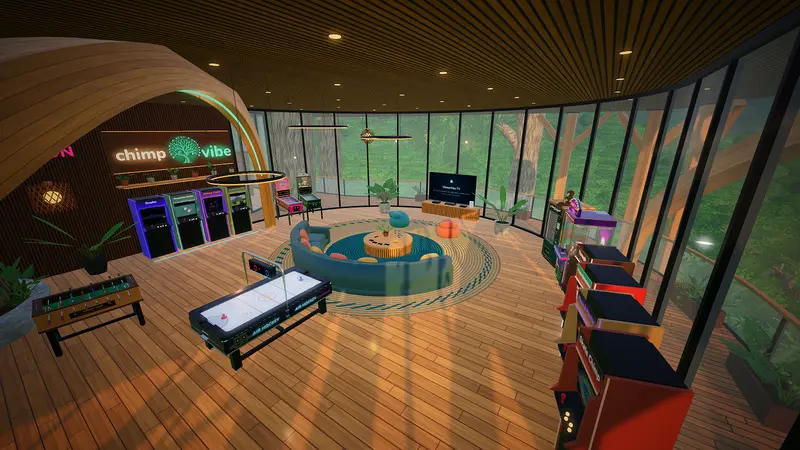
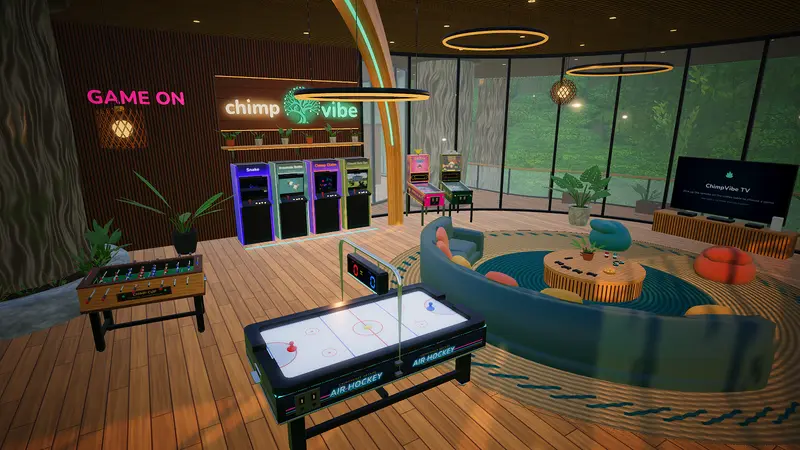
Landing page: closer photos of the Game Room, MixChimp Studio and Showroom
The showroom photo now frames the submission wall, host desk, featured build
screen and the firetruck's display table; MixChimp frames the production desk
under its sign and the drum kit; the Game Room comes in closer on air hockey,
the sofa and TV, and the arcade cabinets. Alt text follows the new views.

diff --git a/src/site/rooms.ts b/src/site/rooms.ts
@@ -70,7 +70,7 @@ export const ROOMS: Room[] = [
     ],
     things: ["Arcade cabinets", "Game TV", "Pinball", "Claw machine", "Air hockey", "Foosball"],
     concept: "game",
-    alt: "The Game Room from above: arcade cabinets under the ChimpVibe sign, pinball, air hockey and foosball, and the curved teal sofa facing the big TV",
+    alt: "The Game Room up close: the air hockey table and foosball in front, arcade cabinets and pinball under the ChimpVibe sign, and the curved teal sofa facing the big TV",
   },
   {
     id: "trading",
@@ -96,7 +96,7 @@ export const ROOMS: Room[] = [
     ],
     things: ["Production desk", "Drum kit and guitars", "Vocal booth"],
     concept: "mixchimp",
-    alt: "The MixChimp Studio from above: the production desk under the lit MixChimp sign and the drum kit on its rug by the glass wall",
+    alt: "The MixChimp Studio up close: the production desk and its screens under the lit MixChimp sign, and the drum kit on its red rug by the glass wall",
   },
   {
     id: "gallery",
@@ -122,7 +122,7 @@ export const ROOMS: Room[] = [
     ],
     things: ["Submission wall", "Featured build screen", "Host desk and audience"],
     concept: "showroom",
-    alt: "The Community Builds Showroom from above: the submission wall, the featured build screen, the red firetruck model and teal sofas round a woven rug",
+    alt: "The Community Builds Showroom up close: the submission wall of community builds, the host desk, the Featured Build screen and the red firetruck model on its display table",
   },
   {
     id: "theatre",
